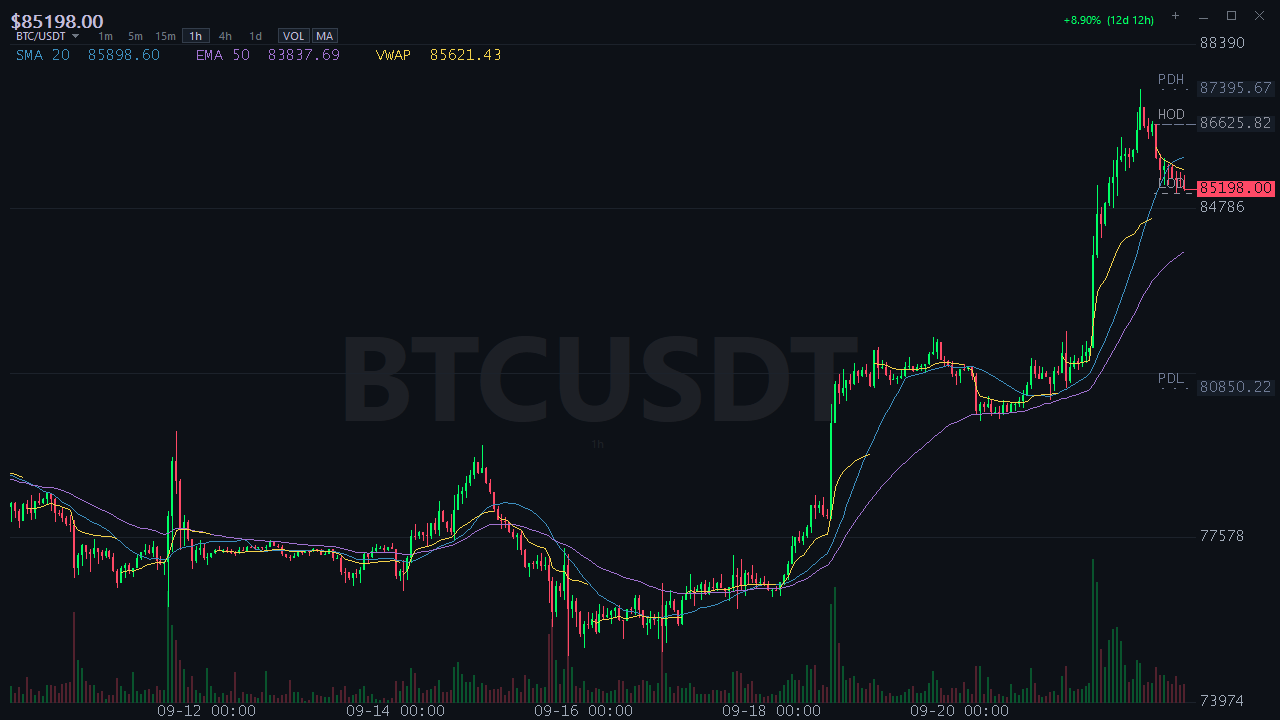
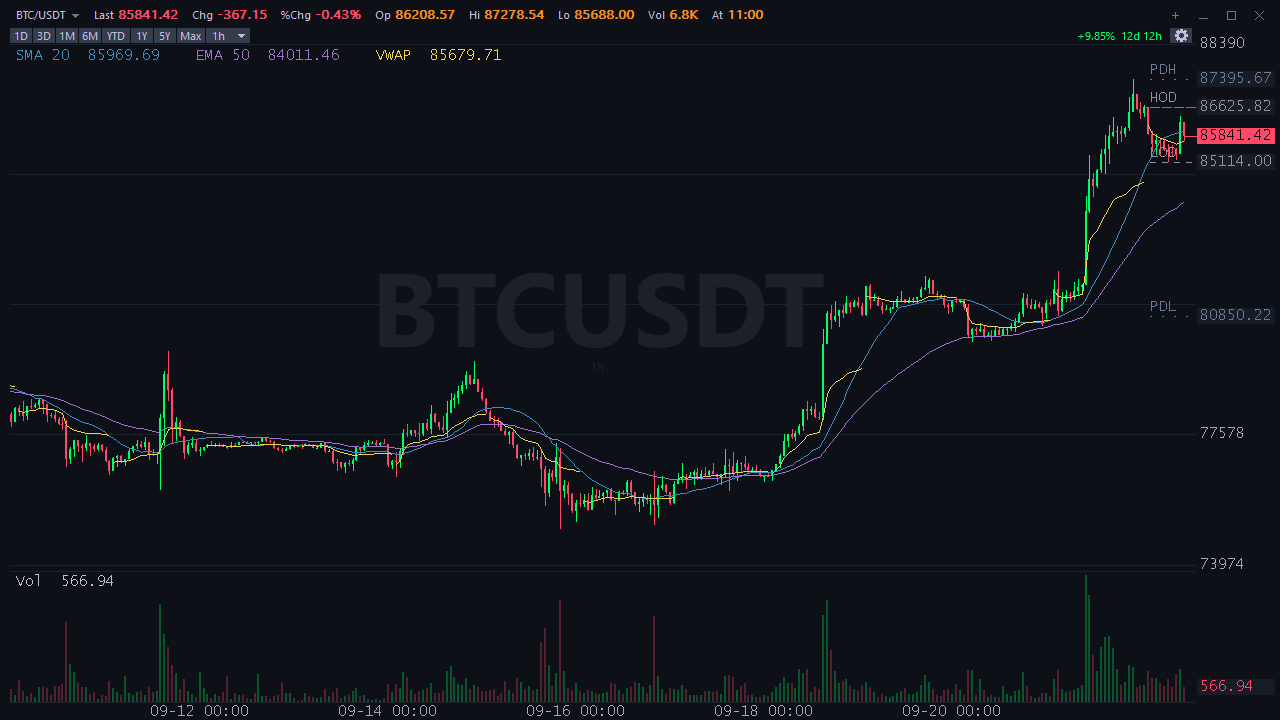
Work log and README: phase 43, the volume pane

diff --git a/WORKLOG.md b/WORKLOG.md
@@ -3611,6 +3611,81 @@ Green twice. `shot_range` 20/20, `shot_theme`, `shot_dpi` (minimum 600 at
 -Hidden`: every difference from `main` lies above y = 44. **Exe 221 696 →
 227 840 bytes (+6 144).**
 
+### Phase 43 — volume in a pane of its own
+
+Branch `phase-43`, merged with `--no-ff`. The second half of what the user
+asked for in phase 42: the volume out from behind the candles and into a
+pane of its own, as on the Bloomberg terminal's chart - price, then
+volume, then the studies.
+
+**1. Plumbing, no visible change.** `ChartGeometry` takes the volume
+choice, and `ChartRect` gets `volTop`/`volBottom`, both equal to the price
+pane's bottom until the pane exists. `ChartPanesBottom` is the lowest
+pane's bottom: the hit test, the vertical crosshair and the time axis read
+it, so the three cannot drift apart. The app's nine geometry calls go
+through one `PanelGeometry(W, H)`, which reads both choices for the mode -
+a call site that forgot one would point the crosshair at the wrong candle.
+Probe fields 74 (0 off, 1 a pane, 2 behind the candles), 75/76 (the pane)
+and 77 (the price pane's bottom). `chart_golden` 30/30 and `golden.ps1
+-Hidden` identical to phase 42.
+
+**2. The pane.** A fifth of the chart height, at least 40 px, 6 px under
+the price pane with a grid line on its top edge - the RSI band's shape -
+and over the band when both are on. Both panes are sized from the whole
+chart height, so the volume pane is as tall with the band as without it.
+`bottom` and `ch` stay the price pane's, as in phase 39, so the price
+functions, the alerts and the levels are untouched. The bars are phase
+21's, now `DrawVolumeBars` with a base row and a height: the pane's bottom
+and its height less 3 px of headroom, or, without room for a pane, the old
+place behind the candles. `ChartVolBarsH` gives that height to the app
+too, whose easing of the volume scale still assumed 22 % of the price
+pane. In the pane: the last candle's volume as a tag at the top of its
+bar, in its direction's color on the box (the hover box's close row); a
+legend, "Vol" and the volume at the crosshair or the last visible candle,
+in the text color, which reads over the muted bars (two new pairs in the
+light theme's contrast check); and with the pointer in the pane, a
+crosshair tag with the volume at that height. No scale labels: the pane's
+top is the view's largest volume, and three readings of one number in a
+40 px pane would only collide. The pointer's pane is three-way now - the
+gap above a pane belongs to it, and the band starts under the volume pane
+(pitfall 109). Turning the volume on or off changes the geometry, so it
+rebuilds the watermark and drops the hover, as the RSI band does. The
+volume is still on by default in the panel and off on the desktop.
+
+**The one choice Bloomberg does not answer:** a panel under 280 px high
+with RSI on has room for one pane under the price, not two (400x250 keeps
+142 px of price with one, 96 with two, and the floor is 120). The RSI band
+is placed first - it is opted into and has nowhere else to go - and the
+volume falls back to the phase 21 bars behind the candles. It gets its
+pane back when the panel grows or the band is turned off.
+
+**Verified** on the hidden desktop. `chart_golden`: 24 of the 30 cases
+changed, and exactly the six expected did not - the overlays-off case, the
+four desktop cases (volume off there) and `rsi_15m_400x250`, the fallback,
+pixel-identical to the bars behind the candles. All were looked at before
+the goldens were written, and four cases are new: the pointer in the pane,
+both panes at 560x300, the light theme with both panes and the pointer in
+the volume pane, and the desktop with the volume on. The first draft of
+the light case had the pointer 14 px from the value tag, where the
+crosshair's tag correctly gives way; it was moved so the case shows the
+tag. Red run with `VOL_PANE_FRAC` 0.21: 27 of 34 fail - every case whose
+pane is sized by the fifth, not by the 40 px floor (400x250's pane is the
+floor both times, and passes). Green 34/34 twice, 38 contrast pairs,
+lowest 4.60:1. `shot_vol.ps1` (16 checks): the pane at 1280x720 (rows
+571-702, the price to 565), a hover in the pane finds a candle, off and on
+from the tray with the second capture pixel-identical to the first, the
+pane over the band (434-565), both at 560x300, the fallback at 400x250 with
+RSI on and the pane back with RSI off. **Red run** against commit 1: 6
+fail, exactly the pane checks. Green twice. `shot_rsi`, `shot_range`,
+`shot_quote` and `shot_dpi` pass unchanged; `shot_theme` passes with its
+test alert moved from 0.4 % to 0.8 % over the price - on the shorter price
+pane 0.4 % put the amber tag 13 px over the stamp, which is drawn on top
+and covered the number the check reads. `golden.ps1 -Hidden`: every
+difference from phase 42 lies in the chart; the only one reaching above
+y = 44 is the price column's top label on the 560 px panel, which now
+gives way to the PDH tag on the shorter pane. The README picture is the
+same fixture scene, retaken. **Exe 227 840 → 230 400 bytes (+2 560).**
+
 ---
 
 ## Known limitations
@@ -3625,6 +3700,9 @@ Green twice. `shot_range` 20/20, `shot_theme`, `shot_dpi` (minimum 600 at
   42). The klines give no trade time; Bloomberg's At is the trade's.
 - **The day's high, low and volume refresh every 15 s** (phase 42), and
   high and low follow the live price in between. Volume does not.
+- **Under 280 px of panel height, RSI and a volume pane do not both fit**
+  (phase 43). The band wins and the bars stand behind the candles, as
+  before phase 43. At 150 % the limit scales with the panel.
 - **YTD in the first week of January** (phase 41) is fewer than
   `MIN_VIEW` (8) daily candles, so the range cannot be shown on 1d and
   ends. It comes back once the year is eight days old.
@@ -4466,21 +4544,28 @@ Green twice. `shot_range` 20/20, `shot_theme`, `shot_dpi` (minimum 600 at
     to grow back. Keep the wish apart from the state it is clamped into
     (`rangeWant` next to `viewCount`) and reapply it wherever the state is
     set, not only where the wish is made.
+109. **Below the price pane is not one place.** Phase 39 decided that the
+    pointer was in the RSI band with `hoverY > bottom`, which was true
+    while the band was the only pane there. With the volume pane between
+    them, the same test sends a pointer in the volume pane to the band:
+    its horizontal clamped into the band and the RSI tag drawn. When a
+    pane is added, every "below the price" test becomes a question of
+    WHICH pane - the crosshair, its tags and the price tag's guard.
 
 ---
 
 ## Backups
 
-**Only `tickc.c.bak36` and `chart.c.bak36` are left** (2026-09-23). From
+**Only `tickc.c.bak37` and `chart.c.bak37` are left** (2026-09-24). From
 phase 34 the code is two files, so the backup is a pair. They are identical
-to `tickc.c` and `chart.c` after phase 42 and are the rollback reference for
+to `tickc.c` and `chart.c` after phase 43 and are the rollback reference for
 the build that is running. `ticker.c.bak` … `.bak24`, `tickc.c.bak25` …
-`.bak27` and the pairs `.bak28` … `.bak35` (phases 34–41) are deleted: that history is in git.
+`.bak27` and the pairs `.bak28` … `.bak36` (phases 34–42) are deleted: that history is in git.
 
 The order was `.bak` … `.bak7` (phases 1–8), `.bak8` (phase 13), `.bak9`
 (phase 14), `.bak10` (phase 15), `.bak11` (phase 16), `.bak12` (phase 17),
 `.bak13` (phase 18), `.bak14` (phase 19), `.bak15` (phase 20), `.bak16`
-(phase 21), `.bak17` (phase 22), `.bak18` (phase 23), `.bak19` (phase 24), `.bak20` (phase 25), `.bak21` (phase 26), `.bak22` (phase 27), `.bak23` (phase 28), `.bak24` (phase 29), `tickc.c.bak25` (phase 30), `.bak26` (phase 31), `.bak27` (phase 32), then the pairs `.bak28` (phase 34), `.bak29` (phase 35), `.bak30` (phase 36), `.bak31` (phase 37), `.bak32` (phase 38), `.bak33` (phase 39), `.bak34` (phase 40), `.bak35` (phase 41) and `.bak36` (phase 42). The files are ignored by
+(phase 21), `.bak17` (phase 22), `.bak18` (phase 23), `.bak19` (phase 24), `.bak20` (phase 25), `.bak21` (phase 26), `.bak22` (phase 27), `.bak23` (phase 28), `.bak24` (phase 29), `tickc.c.bak25` (phase 30), `.bak26` (phase 31), `.bak27` (phase 32), then the pairs `.bak28` (phase 34), `.bak29` (phase 35), `.bak30` (phase 36), `.bak31` (phase 37), `.bak32` (phase 38), `.bak33` (phase 39), `.bak34` (phase 40), `.bak35` (phase 41), `.bak36` (phase 42) and `.bak37` (phase 43). The files are ignored by
 git; the pattern
 is `*.bak[0-9]*`, with an asterisk, because `*.bak[0-9]` alone let the two-digit ones
 through.

diff --git a/README.md b/README.md
@@ -7,7 +7,7 @@ The whole thing compiles to a single exe of about 200 KB.
 I built it because I wanted the BTC price in the corner of my screen without keeping
 a browser tab open, and without a 150 MB Electron app. It grew from there.
 
-![The chart panel: candles, volume, SMA 20, EMA 50, VWAP and the day levels](docs/images/panel.png)
+![The chart panel: the quote line, candles, SMA 20, EMA 50, VWAP, the day levels and the volume pane](docs/images/panel.png)
 
 ## What it does
 
@@ -15,9 +15,10 @@ a browser tab open, and without a 150 MB Electron app. It grew from there.
 - **A header on the Bloomberg model:** a quote line with Last, Chg, %Chg, Op, Hi, Lo, Vol
 and At for the UTC trading day, a range field (1D … Max, and the bar size), and a gear
 that opens the chart settings: volume, averages, RSI and the theme.
-- **Chart panel** (left-click the icon): candlesticks, volume bars, SMA 20, EMA 50,
-and a daily VWAP. You also get today's high and low, and yesterday's high, low and close
-(labelled HOD, LOD, PDH, PDL, PDC).
+- **Chart panel** (left-click the icon): candlesticks, SMA 20, EMA 50 and a daily VWAP,
+with the volume in a pane of its own under the price and an optional RSI 14 pane. You
+also get today's high and low, and yesterday's high, low and close (labelled HOD, LOD,
+PDH, PDL, PDC).
 - **Symbols:** BTC, ETH, SOL and BNB against USDT.
 - **Intervals:** 1m, 5m, 15m, 1h, 4h, 1d, 1w, from a dropdown in the toolbar.
 - **Ranges:** 1D, 3D, 1M, 6M, YTD, 1Y, 5Y, Max. A range picks a fitting interval and shows
@@ -97,7 +98,7 @@ In the chart panel:
 | `Home` / `End`                  | Oldest / newest candle                                            |
 | `1` … `7`                       | Switch interval                                                   |
 | `Shift`+`1` … `8`               | Switch range (1D … Max); the selected one again turns it off      |
-| `V`                             | Volume bars on/off                                                |
+| `V`                             | Volume pane on/off                                                |
 | `M`                             | Indicators on/off (moving averages, VWAP, levels)                 |
 | `I`                             | RSI band on/off (RSI 14 under the chart)                          |
 | `T`                             | Light theme on/off                                                |
